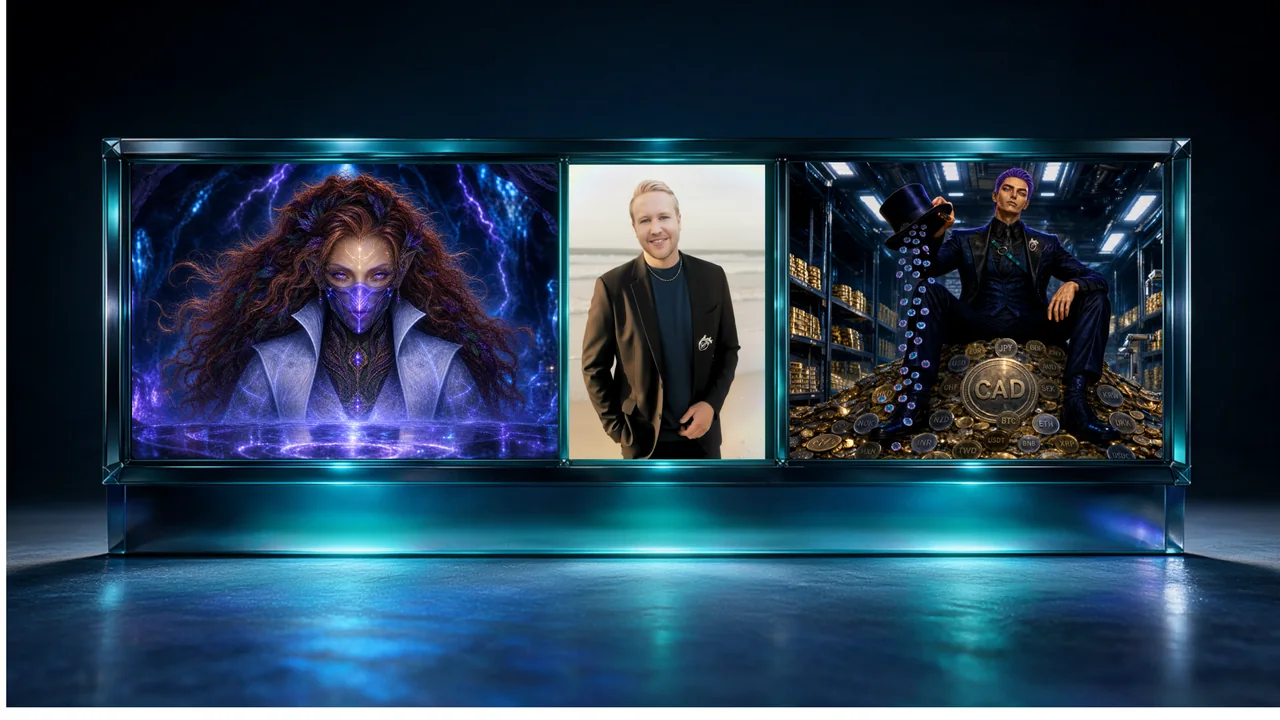
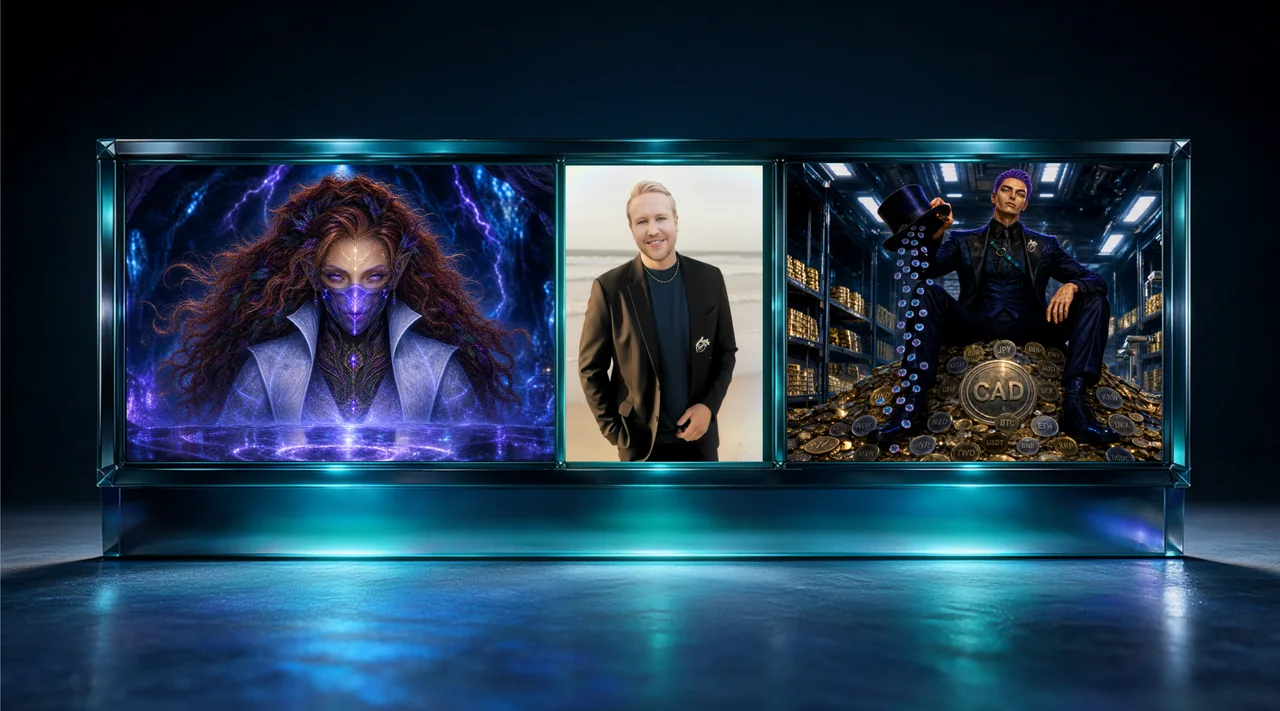
CID Vivarium: 3D nameplates on the floor, and the white bib is gone
The display-case art carried a white edge baked into the exported SVG
(18px left, 38px bottom). Re-rendered from the master with a zeroed page
margin, trimmed to the true content bounds, and regenerated the WebP set.

Nameplates move off the caption row and stand on the reflective floor in
front of the case, one per bay, in the card language from the reference
pen: 'cinema wide' landscape plates for the two AI agents (violet for
Ethel, gold for Icarus III) and a 'neo surface' plate for the human
principal investigator in the middle, with a high-contrast rim, hard
offset shadow, and an electric accent rail. Clean plates only: no orbit
circles, no social row, no call to action. Each tilts in 3D on hover.

Sized in container units so they track the artwork at any width. On
phones they step off the floor into a readable row beneath the art.

Changed region(s): [[0.0, 0.0, 1.0, 1.0]]

diff --git a/src/styles/cid-vivarium.css b/src/styles/cid-vivarium.css
@@ -79,23 +79,91 @@
 .cid-scope .cid-case-btn:hover .cid-case-zoomcue,
 .cid-scope .cid-case-btn:focus-visible .cid-case-zoomcue { opacity: 1; }
 
-.cid-scope .cid-case-labels { position: relative; height: 62px; margin: 10px 0 0; }
-.cid-scope .cid-case-label {
-  position: absolute; top: 0; transform: translateX(-50%);
-  display: flex; flex-direction: column; align-items: center; gap: 2px; text-align: center;
+/* ---- Nameplates standing on the floor in front of the case. Two card
+   families: "cinema wide" landscape plates for the two AI agents, and a
+   "neo surface" plate (high-contrast rim, hard shadow, electric accent
+   rail) for the human principal investigator in the middle. Sized in
+   container units so they track the artwork at every width. ---- */
+.cid-scope .cid-case-stage { position: relative; display: block; container-type: inline-size; }
+.cid-scope .cid-case-plates { position: absolute; inset: 0; pointer-events: none; }
+
+.cid-scope .cid-plate {
+  position: absolute; bottom: 5.5%; transform: translateX(-50%);
+  perspective: 70cqw; pointer-events: auto;
 }
-.cid-scope .cid-case-role {
-  font-family: 'Montserrat', system-ui, sans-serif; font-weight: 800; font-size: 9.5px;
-  letter-spacing: .14em; text-transform: uppercase; color: #fff;
-  background: linear-gradient(180deg, #B4102F 0%, #8A0C24 100%); border-radius: 6px; padding: 4px 10px;
-  box-shadow: 0 1px 0 rgba(255,255,255,.28) inset, 0 3px 8px -3px rgba(150,10,30,.85);
-  white-space: nowrap;
+.cid-scope .cid-plate--ethel { width: 25cqw; }
+.cid-scope .cid-plate--greg { width: 19cqw; }
+.cid-scope .cid-plate--icarus { width: 25cqw; }
+
+.cid-scope .cid-plate-card {
+  position: relative; display: block; transform-style: preserve-3d;
+  border-radius: 1.9cqw; padding: 1.5cqw 1.7cqw;
+  transition: transform .5s cubic-bezier(.22,1,.36,1), box-shadow .5s ease;
 }
-.cid-scope .cid-case-name {
-  font-family: 'Montserrat', system-ui, sans-serif; font-weight: 800;
-  font-size: clamp(14px,1.3vw,17px); line-height: 1.2; color: #1a1646; white-space: nowrap;
+.cid-scope .cid-plate:hover .cid-plate-card { transform: rotate3d(1, 1, 0, 15deg); }
+
+.cid-scope .cid-plate-glass {
+  position: absolute; inset: 0.45cqw; border-radius: 1.5cqw; pointer-events: none;
+  transform: translate3d(0, 0, 10px);
 }
-.cid-scope .cid-case-sub { font-size: 11px; font-weight: 500; letter-spacing: .05em; text-transform: uppercase; color: #5b5f86; }
+.cid-scope .cid-plate-body {
+  position: relative; display: flex; flex-direction: column; gap: 0.35cqw;
+  transform: translate3d(0, 0, 18px);
+}
+.cid-scope .cid-plate-role {
+  font-family: 'Montserrat', system-ui, sans-serif; font-weight: 800; font-size: 0.82cqw;
+  letter-spacing: .2em; text-transform: uppercase; white-space: nowrap;
+}
+.cid-scope .cid-plate-name {
+  font-family: 'Montserrat', system-ui, sans-serif; font-weight: 900; font-size: 1.85cqw;
+  line-height: 1.08; letter-spacing: -0.01em; white-space: nowrap;
+}
+.cid-scope .cid-plate-sub {
+  font-family: 'Montserrat', system-ui, sans-serif; font-weight: 600; font-size: 0.78cqw;
+  letter-spacing: .12em; text-transform: uppercase;
+}
+
+/* cinema wide: bright faceted plate, dark type */
+.cid-scope .cid-plate--wide .cid-plate-card {
+  background: var(--plate-grad);
+  box-shadow: 0 1.5cqw 2.6cqw -1.1cqw rgba(0,0,0,.72), 0 0 2.4cqw -0.8cqw var(--plate-glow);
+}
+.cid-scope .cid-plate--wide .cid-plate-glass {
+  background: linear-gradient(168deg, rgba(255,255,255,.46) 0%, rgba(255,255,255,.06) 100%);
+  border-left: 1px solid rgba(255,255,255,.8);
+  border-bottom: 1px solid rgba(255,255,255,.55);
+}
+.cid-scope .cid-plate--wide .cid-plate-role { color: var(--plate-role); }
+.cid-scope .cid-plate--wide .cid-plate-name { color: var(--plate-ink); }
+
+.cid-scope .cid-plate--ethel {
+  --plate-grad: linear-gradient(142deg, #c4a6ff 0%, #8b5cf6 48%, #5b21b6 100%);
+  --plate-ink: #2b0561; --plate-role: rgba(43,5,97,.78); --plate-glow: rgba(139,92,246,.9);
+}
+.cid-scope .cid-plate--icarus {
+  --plate-grad: linear-gradient(142deg, #ffe08a 0%, #f0c040 45%, #b8860b 100%);
+  --plate-ink: #3f2a00; --plate-role: rgba(63,42,0,.75); --plate-glow: rgba(240,192,64,.85);
+}
+
+/* neo surface: high-contrast rim, hard shadow, electric accent rail */
+.cid-scope .cid-plate--neo .cid-plate-card {
+  background: linear-gradient(158deg, #17123f 0%, #0b0824 100%);
+  border: 1px solid rgba(226,220,255,.62);
+  box-shadow: 0.42cqw 0.6cqw 0 rgba(91,4,222,.6), 0 1.6cqw 2.8cqw -1.1cqw rgba(0,0,0,.8);
+}
+.cid-scope .cid-plate--neo .cid-plate-glass {
+  background: linear-gradient(180deg, rgba(255,255,255,.14) 0%, rgba(255,255,255,0) 62%);
+  border-radius: 1.5cqw;
+}
+.cid-scope .cid-plate--neo .cid-plate-card::before {
+  content: ""; position: absolute; left: 0.55cqw; top: 16%; bottom: 16%; width: 0.36cqw;
+  border-radius: 999px; background: linear-gradient(180deg, #a855f7, #5B04DE);
+  box-shadow: 0 0 1.4cqw rgba(124,24,231,.95); transform: translate3d(0, 0, 14px);
+}
+.cid-scope .cid-plate--neo .cid-plate-body { padding-left: 1.1cqw; }
+.cid-scope .cid-plate--neo .cid-plate-role { color: #b9a6f2; }
+.cid-scope .cid-plate--neo .cid-plate-name { color: #f4f2ff; }
+.cid-scope .cid-plate--neo .cid-plate-sub { color: #8f86c9; }
 
 /* full-screen zoom viewer */
 .cid-case-viewer {
@@ -126,10 +194,27 @@
 .cid-case-pct { min-width: 58px; text-align: center; font-size: 12px; font-weight: 700; color: #a9aecb; font-variant-numeric: tabular-nums; }
 .cid-case-hint { margin: 0 0 14px; font-size: 11.5px; letter-spacing: .04em; color: #7d83a6; text-align: center; padding: 0 16px; }
 
-@media (max-width: 700px) {
-  .cid-scope .cid-case-labels { position: static; height: auto; display: flex; flex-wrap: wrap; justify-content: center; gap: 14px; }
-  .cid-scope .cid-case-label { position: static; transform: none; }
-  .cid-scope .cid-case-zoomcue { opacity: 1; }
+/* On phones the floor plates would be a few millimetres tall, so they step
+   off the floor and become a normal row of cards under the artwork. */
+@media (max-width: 760px) {
+  .cid-scope .cid-case-btn { overflow: visible; }
+  .cid-scope .cid-case-plates {
+    position: static; display: flex; flex-wrap: wrap; justify-content: center;
+    gap: 10px; margin-top: 12px;
+  }
+  .cid-scope .cid-plate { position: static; transform: none; width: auto; perspective: 600px; }
+  .cid-scope .cid-plate-card { border-radius: 12px; padding: 9px 13px; }
+  .cid-scope .cid-plate-glass { inset: 3px; border-radius: 10px; }
+  .cid-scope .cid-plate-body { gap: 2px; }
+  .cid-scope .cid-plate-role { font-size: 8.5px; }
+  .cid-scope .cid-plate-name { font-size: 15px; }
+  .cid-scope .cid-plate-sub { font-size: 8.5px; }
+  .cid-scope .cid-plate--neo .cid-plate-card { box-shadow: 3px 4px 0 rgba(91,4,222,.6), 0 14px 24px -10px rgba(0,0,0,.8); }
+  .cid-scope .cid-plate--neo .cid-plate-card::before { left: 5px; width: 3px; box-shadow: 0 0 10px rgba(124,24,231,.95); }
+  .cid-scope .cid-plate--neo .cid-plate-body { padding-left: 8px; }
+  .cid-scope .cid-plate--wide .cid-plate-card { box-shadow: 0 14px 24px -10px rgba(0,0,0,.72); }
+  /* the plates now sit below the art, so the cue moves up onto the artwork */
+  .cid-scope .cid-case-zoomcue { opacity: 1; top: 10px; bottom: auto; }
 }
 
 .cid-scope .cid-viv-block { margin: 26px 0 0; }

diff --git a/src/app/components/CID.tsx b/src/app/components/CID.tsx
@@ -753,9 +753,9 @@ function LivingWallSlider({
  *  researchers. Because it is 3D art with real detail, clicking opens a
  *  full-screen viewer on the 4K master where you can zoom in and pan around. */
 const CASE_BAYS = [
-  { left: "25.5%", role: "Ethical Analyst", name: "Ethel" },
-  { left: "52.5%", role: "Principal Investigator", name: "Greg Long", sub: "CID Director" },
-  { left: "77.5%", role: "Executive Trader", name: "Icarus III" },
+  { key: "ethel", cls: "cid-plate--wide cid-plate--ethel", left: "24%", role: "Ethical Analyst", name: "Ethel" },
+  { key: "greg", cls: "cid-plate--neo cid-plate--greg", left: "52%", role: "Principal Investigator", name: "Greg Long", sub: "CID Director" },
+  { key: "icarus", cls: "cid-plate--wide cid-plate--icarus", left: "76%", role: "Executive Trader", name: "Icarus III" },
 ];
 
 function TeamCase({ base }: { base: string }) {
@@ -784,31 +784,39 @@ function TeamCase({ base }: { base: string }) {
     <>
       <figure className="cid-case" aria-label="CID Vivarium team display case">
         <button type="button" className="cid-case-btn" onClick={launch} aria-label="Open the team display case at full size to zoom in">
-          <img
-            className="cid-case-img"
-            src={src(1920)}
-            srcSet={`${src(1280)} 1280w, ${src(1920)} 1920w, ${src(2560)} 2560w, ${src(3840)} 3840w`}
-            sizes="(max-width: 900px) 96vw, 1192px"
-            width={1920}
-            height={1080}
-            alt="A dark glass display case holding the three CID researchers: Ethel the Ethical Analyst on the left, Greg Long the Principal Investigator in the centre, and Icarus III the Executive Trader on the right"
-            loading="lazy"
-            decoding="async"
-          />
-          <span className="cid-case-zoomcue" aria-hidden="true">
-            <svg viewBox="0 0 24 24" width="15" height="15" fill="none" stroke="currentColor" strokeWidth="2" strokeLinecap="round" strokeLinejoin="round"><circle cx="11" cy="11" r="7" /><path d="M11 8v6M8 11h6M20 20l-3.5-3.5" /></svg>
-            Zoom
+          <span className="cid-case-stage">
+            <img
+              className="cid-case-img"
+              src={src(1920)}
+              srcSet={`${src(1280)} 1280w, ${src(1920)} 1920w, ${src(2560)} 2560w, ${src(3840)} 3840w`}
+              sizes="(max-width: 900px) 96vw, 1192px"
+              width={3822}
+              height={2122}
+              alt="A dark glass display case holding the three CID researchers: Ethel the Ethical Analyst on the left, Greg Long the Principal Investigator in the centre, and Icarus III the Executive Trader on the right"
+              loading="lazy"
+              decoding="async"
+            />
+            {/* Nameplates standing on the floor in front of the case */}
+            <span className="cid-case-plates">
+              {CASE_BAYS.map((b) => (
+                <span className={`cid-plate ${b.cls}`} key={b.key} style={{ left: b.left }}>
+                  <span className="cid-plate-card">
+                    <span className="cid-plate-glass" aria-hidden="true" />
+                    <span className="cid-plate-body">
+                      <span className="cid-plate-role">{b.role}</span>
+                      <span className="cid-plate-name">{b.name}</span>
+                      {b.sub && <span className="cid-plate-sub">{b.sub}</span>}
+                    </span>
+                  </span>
+                </span>
+              ))}
+            </span>
+            <span className="cid-case-zoomcue" aria-hidden="true">
+              <svg viewBox="0 0 24 24" width="15" height="15" fill="none" stroke="currentColor" strokeWidth="2" strokeLinecap="round" strokeLinejoin="round"><circle cx="11" cy="11" r="7" /><path d="M11 8v6M8 11h6M20 20l-3.5-3.5" /></svg>
+              Zoom
+            </span>
           </span>
         </button>
-        <figcaption className="cid-case-labels">
-          {CASE_BAYS.map((b) => (
-            <span className="cid-case-label" key={b.name} style={{ left: b.left }}>
-              <span className="cid-case-role">{b.role}</span>
-              <span className="cid-case-name">{b.name}</span>
-              {b.sub && <span className="cid-case-sub">{b.sub}</span>}
-            </span>
-          ))}
-        </figcaption>
       </figure>
 
       {open && createPortal(
